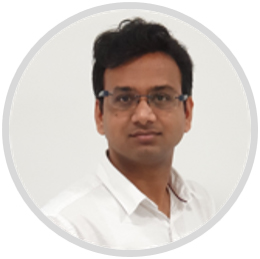
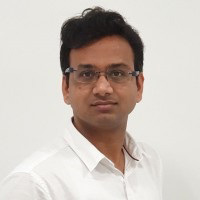
About US image changes

diff --git a/about.php b/about.php
@@ -56,7 +56,7 @@
     <noscript><img alt="" src="https://secure.perk0mean.com/173652.png" style="display:none;" /></noscript>
 
     <!------------------------ main menu start ---------------------->
-    <?php 
+    <?php
      include 'header.php';
      ?>
     <!------------------------ main menu end ------------------------>
@@ -111,7 +111,7 @@
     <!-- <div class="section-padding" id="Benefits">
         <div class="container">
             <div class="row align-items-center">
-                
+
                 <br>
                 <div class="col-md">
                     <div class="px-4 box-content-left">
@@ -214,8 +214,9 @@
 
                     <div class="card row-height-2">
                         <div class="card-view-image">
-                            <img src="img/rahul_circle.jpg" alt="Rahul" loading="lazy"
-                                style="width:100%; height:auto; border-radius: 50%;">
+                            <!--<img src="img/rahul_circle.jpg" alt="Rahul" loading="lazy"
+                                style="width:100%; height:auto; border-radius: 50%;">-->
+                                <img src="img/rahul-prajapat.jpg" alt="Rahul Prajapati" loading="lazy" style="width:100%; height:auto; border-radius: 50%;">
                         </div>
                         <div class="container">
                             <h4 class="title title-name">Rahul Prajapat</h4>
@@ -278,7 +279,7 @@
                 </div>
             </div>
             <!-------- Custom Divider ------------>
-            
+
             <div class="row">
                 <div class="column">
                     <div class="card row-height-2">
@@ -423,7 +424,7 @@
         <br>
 
         <!------------------------Countdown start --------------------->
-        <?php 
+        <?php
                 include 'change_we_brought.php';
                 ?>
 
